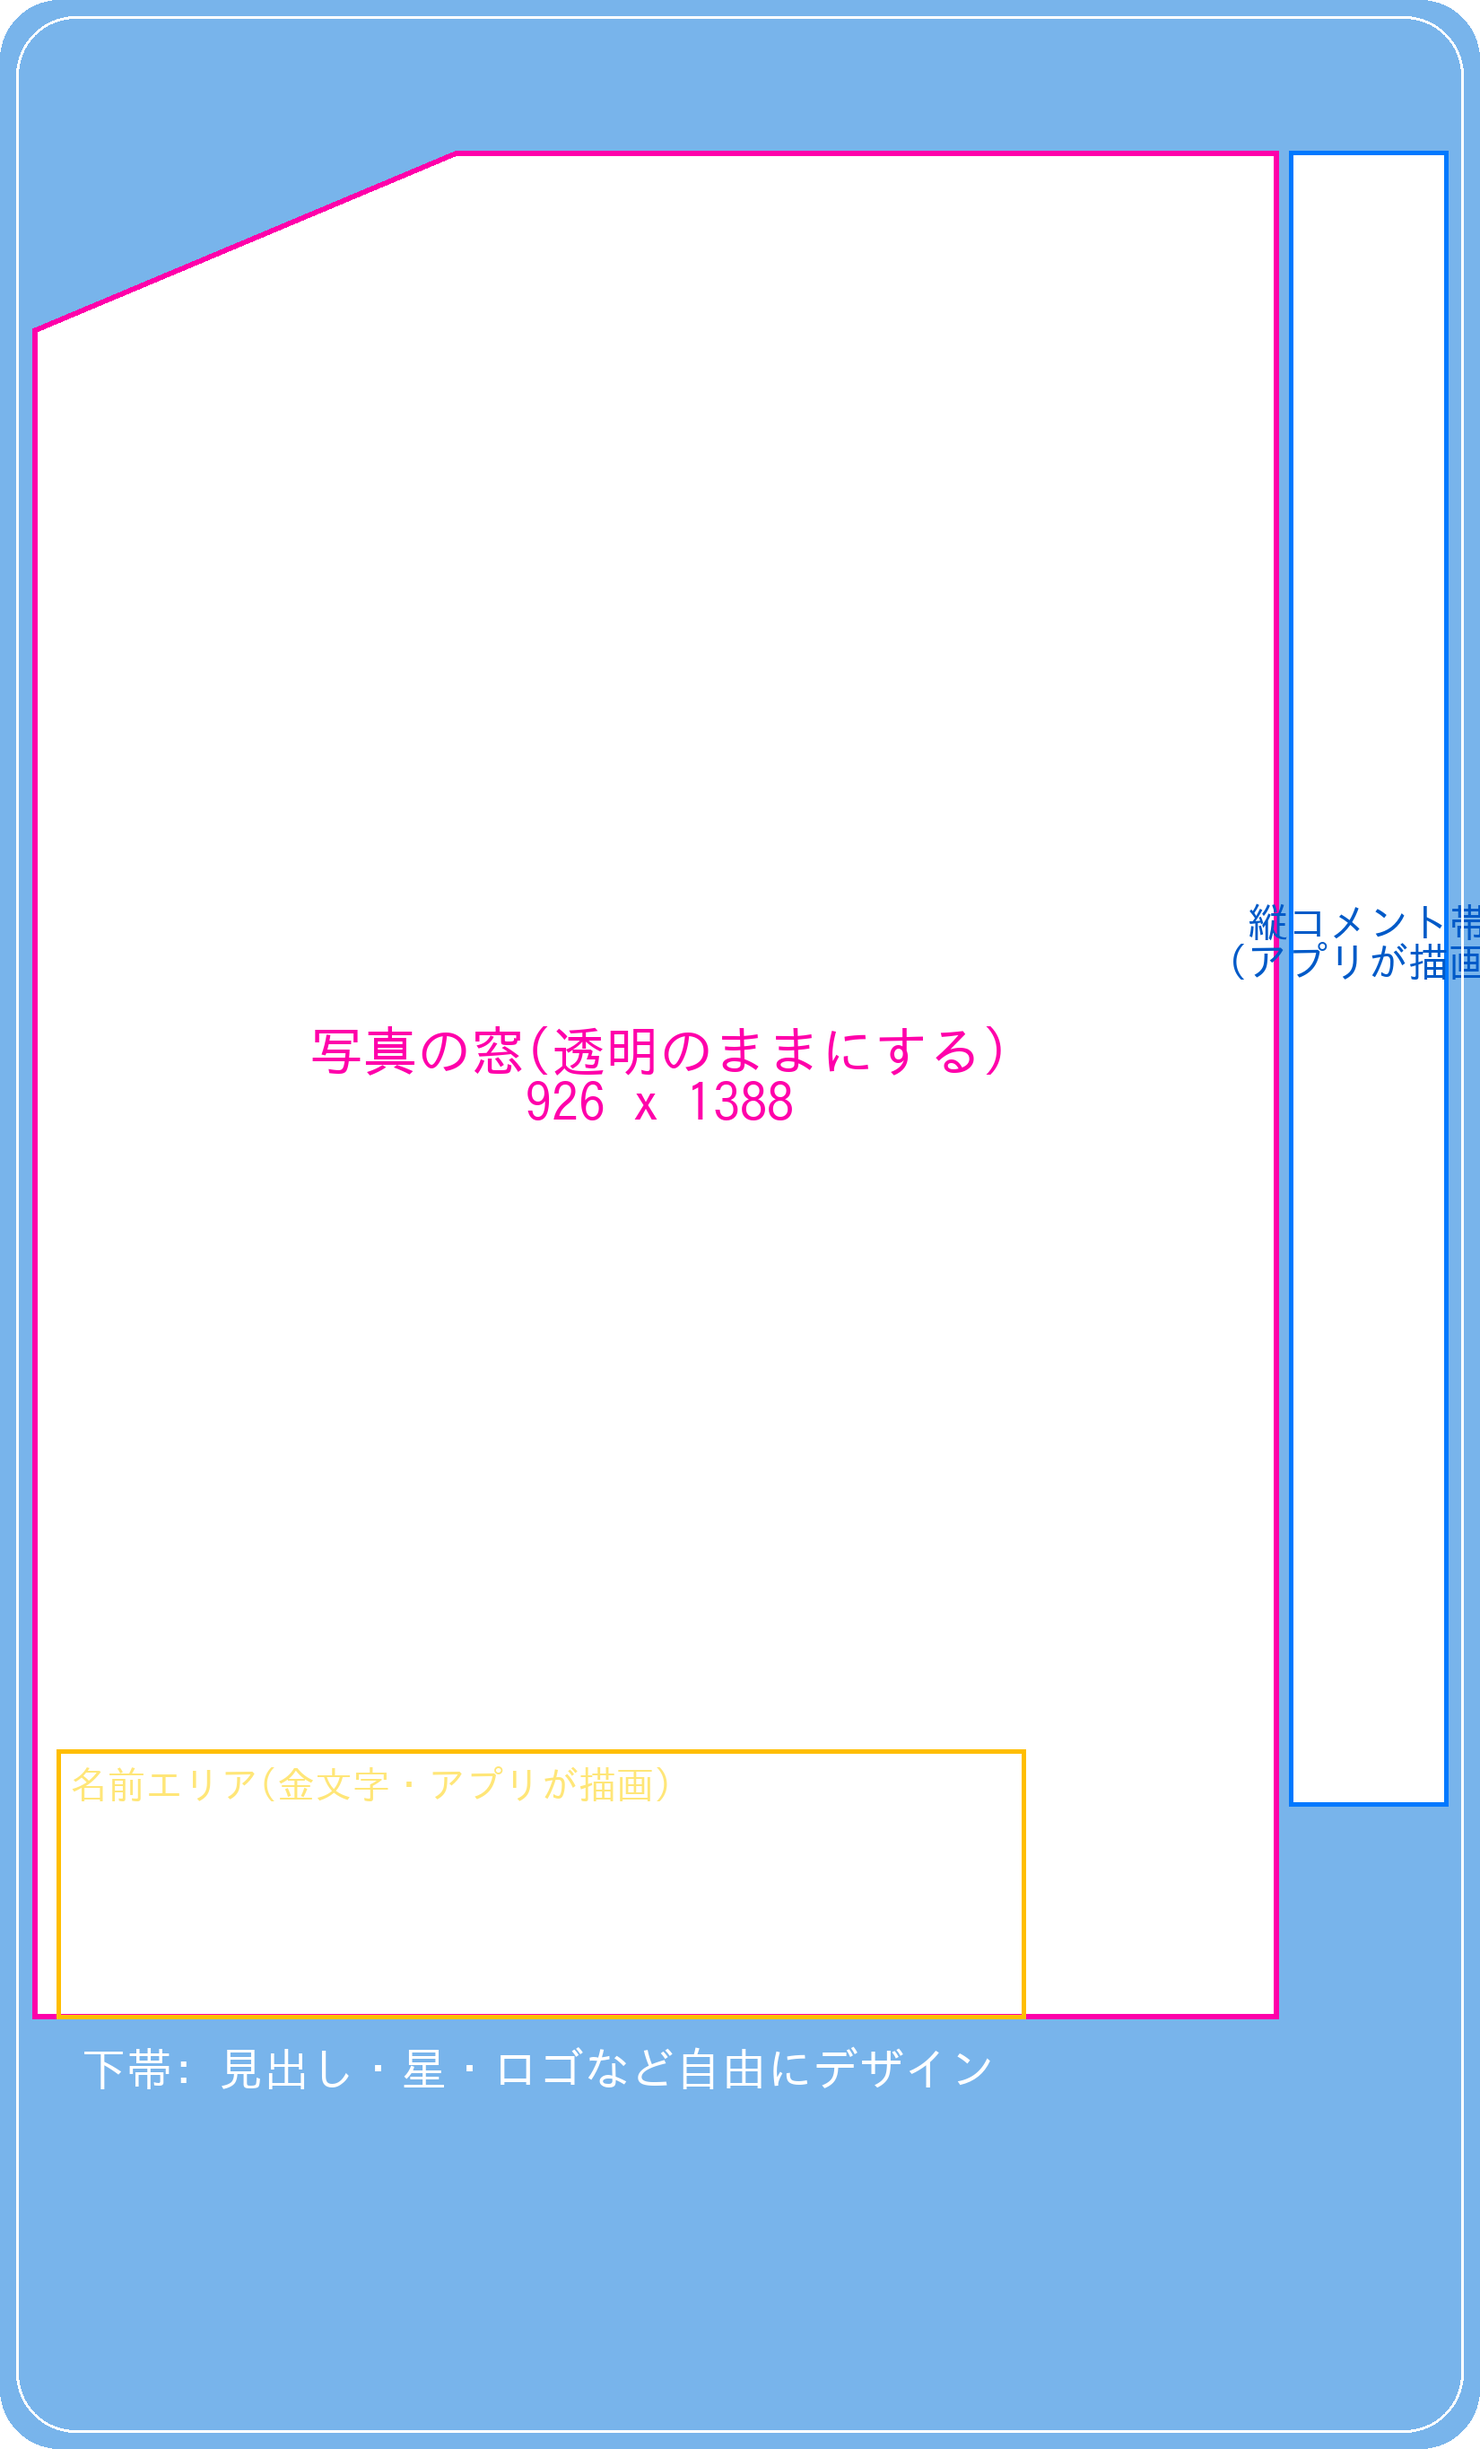
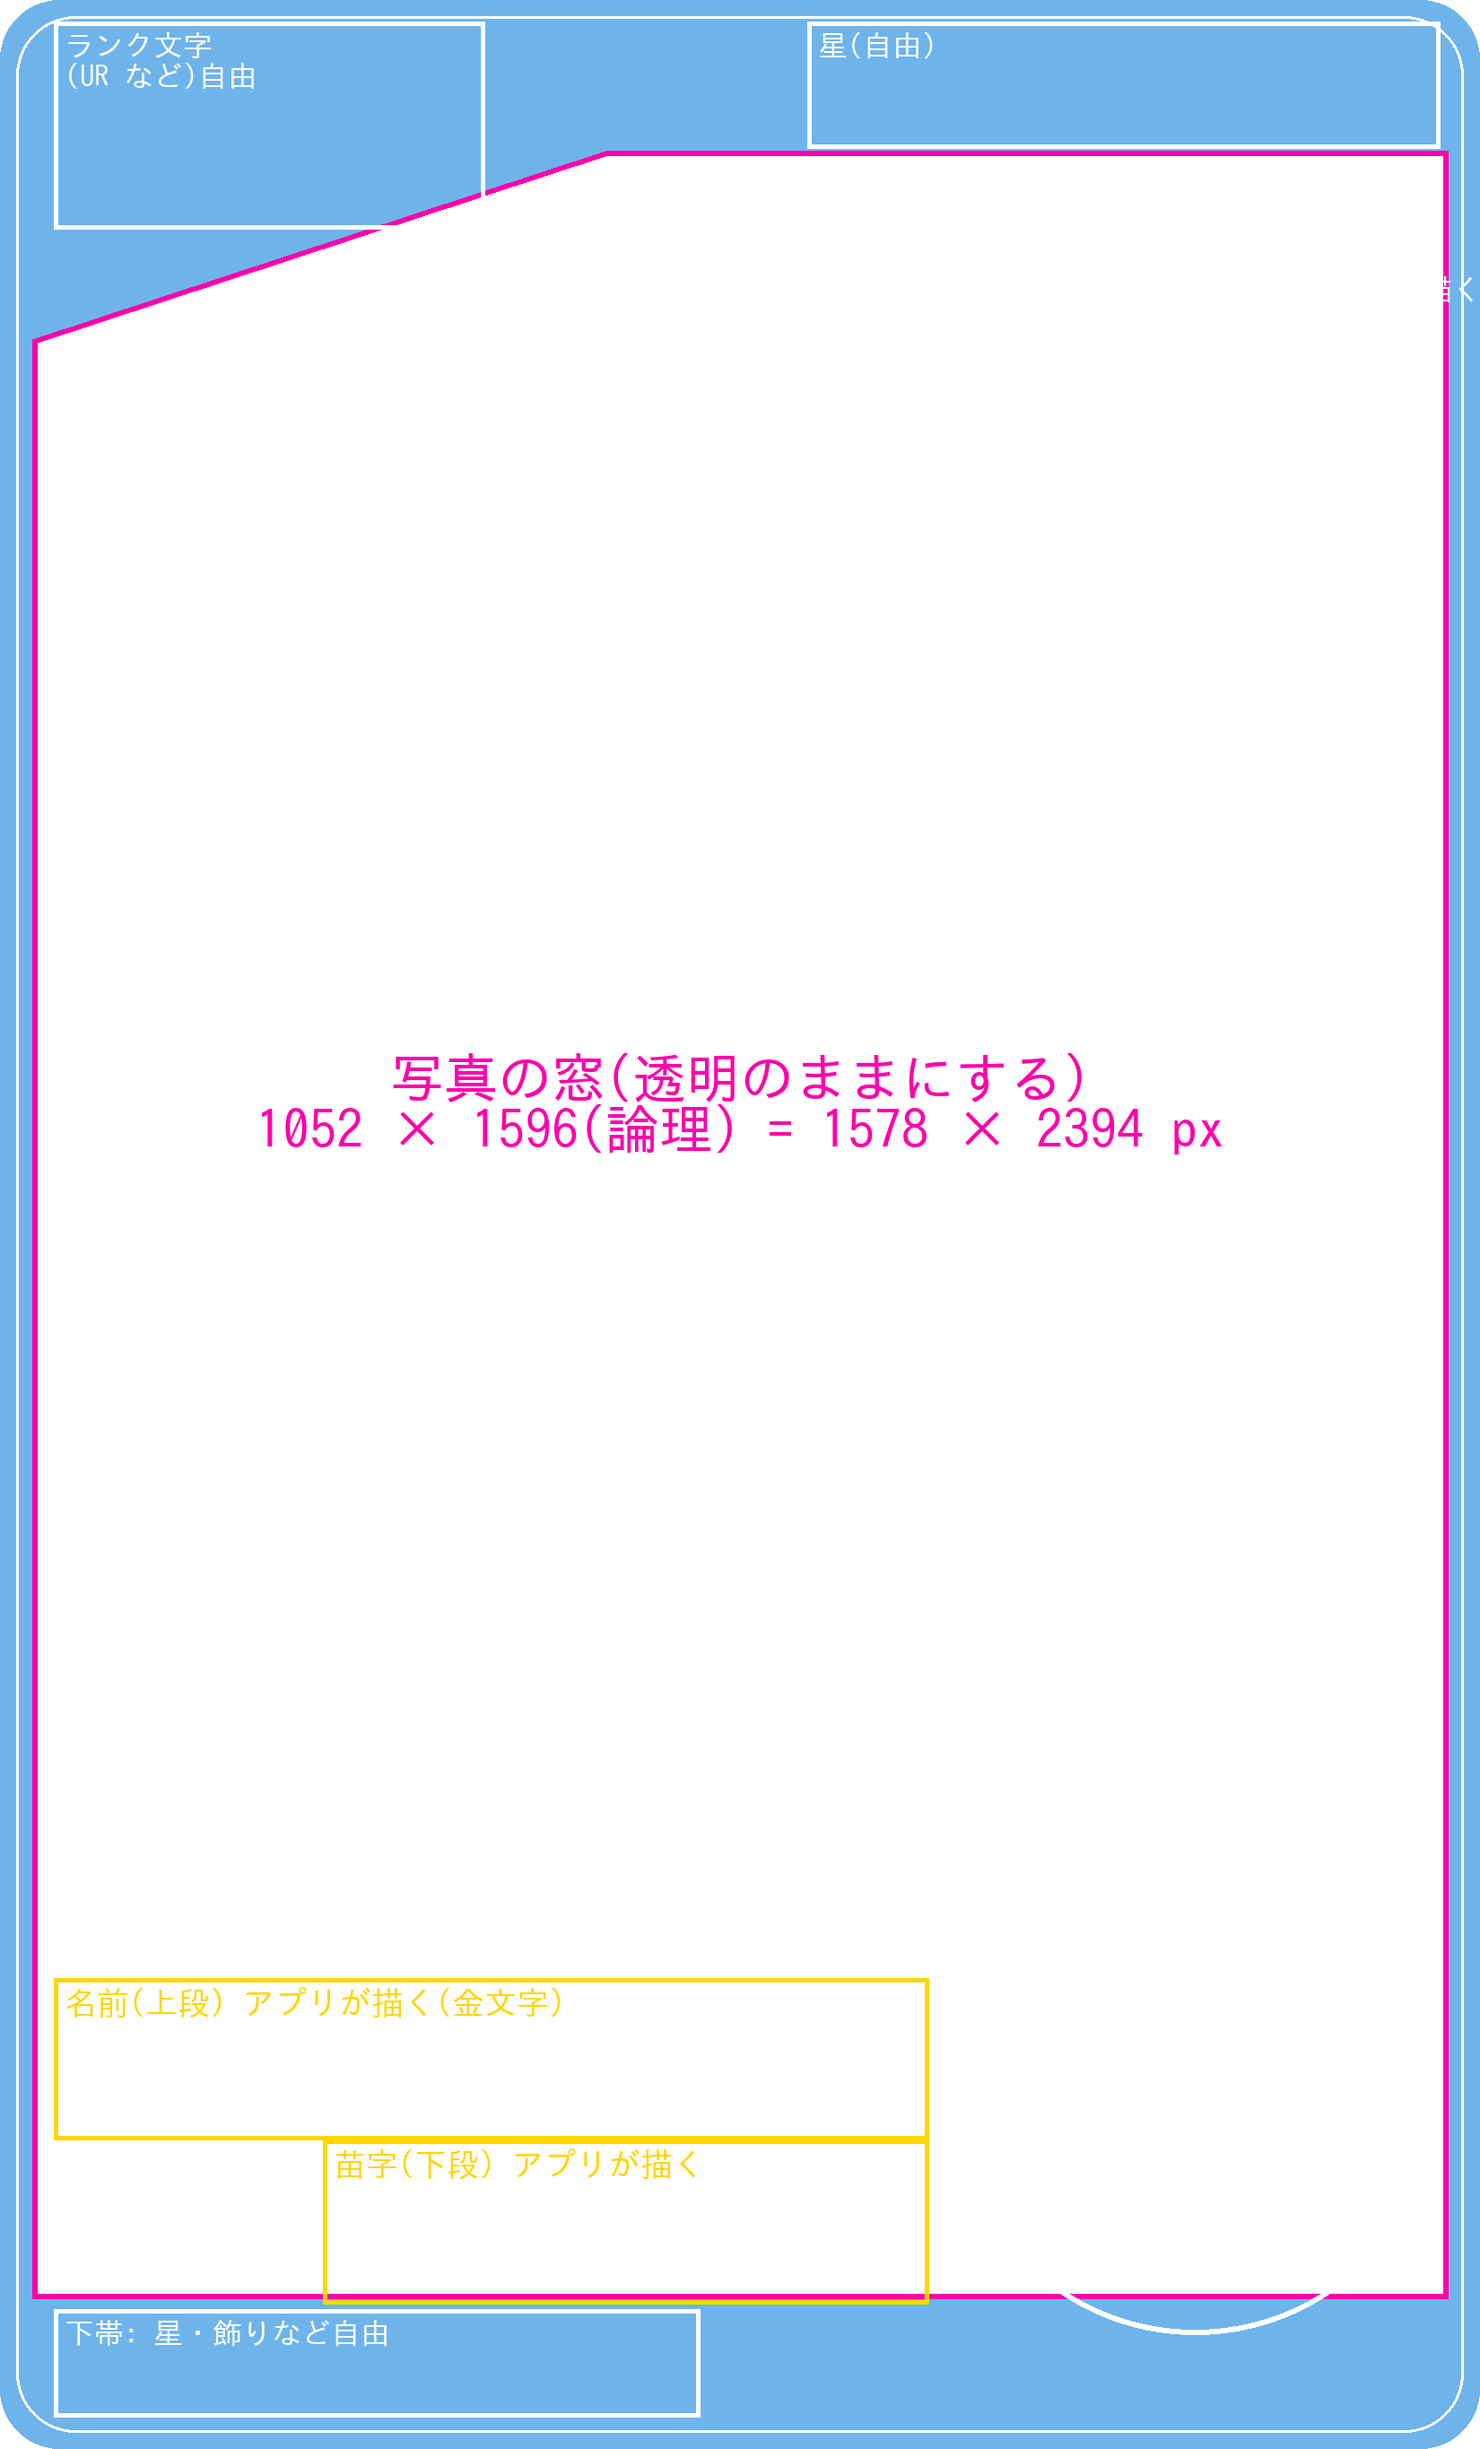
fix: PNGフレーム使用時もバッジの中身(地図・丸印・市町村名)を描画。漁師カード用ガイド画像・制作手順に更新
Claude-Session: https://claude.ai/code/session_01AQwHjBEuGTjZUFqzF9BcPw

diff --git a/aomori-card/assets/app.js b/aomori-card/assets/app.js
@@ -438,7 +438,7 @@
   }
 
   /** 仮フレームの右下バッジ(名前より前面) */
-  function drawFallbackBadge(ctx, o) {
+  function drawFallbackBadge(ctx, o, contentOnly) {
     const c = colorsFor(o.rank);
     const fisher = state.frame.style === 'fisher';
     const bp = state.frame.badgePos;
@@ -447,6 +447,7 @@
     ctx.save();
     roundRect(ctx, 0, 0, W, H, 44);
     ctx.clip();
+    if (!contentOnly) {
     if (fisher) {
       // 金と水色のリング(光彩つき)
       ctx.shadowColor = 'rgba(255,230,140,.85)';
@@ -468,6 +469,7 @@
     rg.addColorStop(0, c.light); rg.addColorStop(1, c.base);
     ctx.beginPath(); ctx.arc(bx, by, bp.r - 11 * k, 0, Math.PI * 2);
     ctx.fillStyle = rg; ctx.fill();
+    }
     // 地図(中央やや上)と、選んだ市町村の位置を示す丸印
     const ms = bp.r * 1.18 / GEO.width;
     const mx = bx - (GEO.width * ms) / 2;
@@ -541,7 +543,8 @@
 
     drawSlogan(ctx, o.slogan);
     drawNames(ctx, o.names, o.nameAlpha);
-    if (!o.frameImg) drawFallbackBadge(ctx, o);
+    // フレームPNGがある場合は、バッジの円(リング・背景)はPNG側に任せ、中身(地図・丸印・市町村名)だけ描く
+    drawFallbackBadge(ctx, o, !!o.frameImg);
     if (CFG.foilEffect && o.rank.foil > 0) drawFoil(ctx, o.rank, o.seed || 1);
     ctx.restore();
   }

diff --git a/aomori-card/assets/config.js b/aomori-card/assets/config.js
@@ -37,7 +37,7 @@ window.AomoriConfig = {
     fisherman: {
       label: '漁師カード風',
       style: 'fisher', // 仮フレームの描き分け: 'fisher'(写真いっぱい) / 'strip'(右に白い縦帯)
-      png: {}, // ローカルプレナーと同じ形式でランク別PNGを登録できる
+      png: {}, // ランク別PNGを登録できる。例: N: 'assets/frames/fisherman/N.png'(作り方は assets/frames/README.md)
 
       photo: {
         x: 24, y: 112, w: 1052, h: 1596,

diff --git a/aomori-card/assets/frames/README.md b/aomori-card/assets/frames/README.md
@@ -1,16 +1,31 @@
 # フレームPNGの作り方(Photoshop)
 
-1. `_guide.png` を Photoshop で開く(**1650 × 2730 px** = 縦名刺 55×91mm)
-   - ピンクの枠が「写真の窓」。**透明のまま**にしてください(写真はPNGの**下**に敷かれます)
-   - 黄の枠が名前(金文字)、青の帯が縦書きコメントの位置(アプリが後から描きます)
-2. ランクごとに N / R / SR / UR / SP の5枚を作り、**透過PNG**で `assets/frames/local-preneur/` に保存
-   (ファイル名例: `N.png` `R.png` `SR.png` `UR.png` `SP.png`、生成前プレビュー用に `PREVIEW.png` も任意)
-3. `assets/config.js` の `png` に登録するとアプリに反映されます(未登録のランクは仮フレーム)
-   ```js
-   png: {
-     N: 'assets/frames/local-preneur/N.png',
-     SP: 'assets/frames/local-preneur/SP.png',
-   },
-   ```
-4. 縦文字コメントもPNGに入れる場合は `slogan.drawn: false` にしてください
-5. 角丸の外側は透明にしてください(アプリ側でも半径44(論理座標)で角を丸めます)
+漁師カード風フレーム(標準)の制作手順です。`_guide.png` を下敷きに使います。
+
+## サイズと形式
+- **1650 × 2730 px** の透過PNG(縦名刺 55×91mm の比率)。角丸は半径66px(アプリ側も角を丸めます)
+- ランクごとに5枚: `N.png` `R.png` `SR.png` `UR.png` `SP.png`。生成前のプレビュー用に `PREVIEW.png`(任意)
+
+## 窓(写真が見える部分)は透明にする
+- ガイド画像のピンクの枠が窓です。**透明のまま**にしてください。写真はPNGの**下**に敷かれます
+- 窓は左上が斜めにカットされた五角形です(論理座標 1100×1820 で (24,252) → (450,112) → (1076,112) → (1076,1708) → (24,1708))
+
+## アプリが後から描くもの(その場所は空けておく)
+| 要素 | 位置(ガイド画像の枠) | 備考 |
+|---|---|---|
+| 縦文字 | 右端の白い枠 | 「人と人、酒と肴、つなぐ青森。」(PNGに入れる場合は `slogan.drawn: false`) |
+| 名前 | 左下の黄色の枠 | 金文字。名前の後ろの暗い影はアプリが重ねる |
+| 市町村バッジの中身 | 右下の円の中 | 地図・丸印・市町村名。**円(リング・背景)はPNGに描く**。地図と文字は白で描くので、円の中は青系などの背景にする |
+
+ランク文字(UR など)、星、飾り、下帯はPNGに自由にデザインしてください。
+
+## 登録
+PNGを `assets/frames/fisherman/` に置き、`assets/config.js` の `frames.fisherman.png` に登録します。未登録のランクは仮の自動描画フレームで表示されます。
+```js
+png: {
+  N: 'assets/frames/fisherman/N.png',
+  SP: 'assets/frames/fisherman/SP.png',
+  PREVIEW: 'assets/frames/fisherman/PREVIEW.png',
+},
+```
+SR以上のキラキラ(ホイル)をPNG側で表現する場合は、`config.js` の `foilEffect: false` にします。
